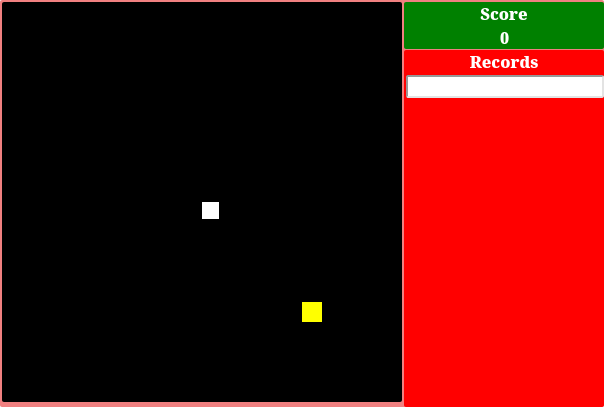
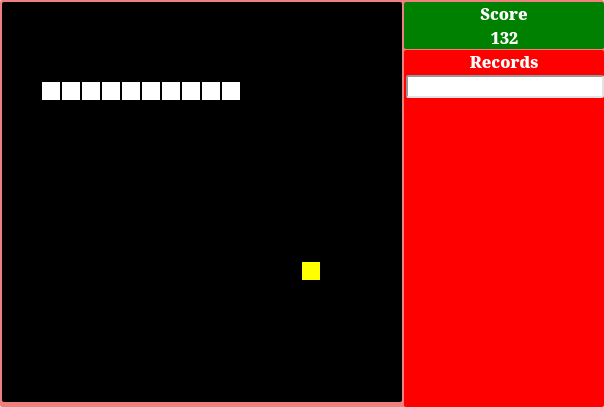
Correções e refatoramento

diff --git a/script.js b/script.js
@@ -1,20 +1,24 @@
 window.onload = function () {
     var stage = document.getElementById('stage');
     var contexto = stage.getContext("2d");
+    var marginBlocos = 2;
 
     setInterval(game, 200);
 
     document.addEventListener("keydown", keyPush);//Adiciona evento de tecla
 
-    const velocidade = 1;    
+    const velocidade = 1;
     var velocidadeX = velocidadeY = 0;
 
-    var pontoX = pontoY = 10;//Cabeça da cobra
-    var tamanhoPonto = pontosX = pontosY = 20;
-    var foodX = foodY = 15;
+    var pontoX = pontoY = 10;//Posição inicial da CABEÇA(10x10)        
+    var foodX = foodY = 15;//Posição inicial da COMIDA(15x15)
 
-    var trail = [];
-    tail = 1;
+    const pontosX = pontosY = 20; //Tamanho do cenário
+    const tamanhoPonto = 20; //Tamanho dos blocos
+
+    tail = 2; //Cauda em inteiro
+    var trail = [tail]; //Cauda em matriz
+    
 
     var score = 0;
     var multiplier = 3;
@@ -38,32 +42,33 @@ window.onload = function () {
         }
 
         contexto.fillStyle = "black";//cor do fundo
-        contexto.fillRect(0, 0, stage.width, stage.height);
+        contexto.fillRect(0, 0, stage.width, stage.height); // Colorir de X=0, Y=0 até x(largura total), y(altura total)
 
         contexto.fillStyle = "yellow";//Pinta o food
-        contexto.fillRect(foodX * tamanhoPonto, foodY * tamanhoPonto, tamanhoPonto, tamanhoPonto);
-
+        contexto.fillRect(foodX * tamanhoPonto, foodY * tamanhoPonto, tamanhoPonto - marginBlocos, tamanhoPonto - marginBlocos);
+        //--------------------------------------------- RENDER DA COBRINHA ----------------------------------------------------
         contexto.fillStyle = "white";//cor da cobra
-
         for (var i = 0; i < trail.length; i++) {//Rastro utilizado para colisões. deve deslizar conforme a cobra anda
 
-            contexto.fillRect(trail[i].x * tamanhoPonto, trail[i].y * tamanhoPonto, tamanhoPonto - 3, tamanhoPonto - 3); //-3 é o margin
+            contexto.fillRect(trail[i].x * tamanhoPonto, trail[i].y * tamanhoPonto, tamanhoPonto - marginBlocos, tamanhoPonto - marginBlocos);
 
-            if (trail[i].x == pontoX && trail[i].y == pontoY) {//Ser cabeça colidir com a calda
+            if (trail[i].x == pontoX && trail[i].y == pontoY) { //Ser cabeça colidir com a calda
 
-                velocidadeX = velocidadeY = 0; //Tá feio era bom jogar um warn(tratar)
-                alert("Voce perdeu!");
-                tail = 1;
+                if(score != 0){
+                    alert("Voce perdeu!");
+                }
+                resetGame();
             }
-
         }
-        //criou o array e substituiu
+
+        //criou o array e substituiu ?????????????????????????
         trail.push({ x: pontoX, y: pontoY }); //SE não colidir o jogo continua
 
-        while (trail.length > tail) {// se a trilha estiver maior que a calda
-            trail.shift();//Remove o ultimo bloco e acrescenta um à frente         
+        while (trail.length > tail) { // se a trilha estiver maior que a calda
+            trail.shift(); //Aumenta 1 bloco        
         }
 
+        //--------------------- GERAR COMIDA --------------------------
         if (foodX == pontoX && foodY == pontoY) {//Se pegar o food   
 
             tail++;
@@ -74,30 +79,56 @@ window.onload = function () {
         }
     }
 
+    //---------------------- Funções auxiliares --------------------------
+    function resetGame(){
+        velocidadeX = velocidadeY = 0;
+        pontoX = pontoY = 10;//Posição inicial da CABEÇA(10x10)        
+        foodX = foodY = 15;//Posição inicial da COMIDA(15x15)              
+        tail = 2;
+        score = 0;
+    }
+
     function atualizarScore() {
 
         score += trail.length * multiplier;
         document.getElementById("scoreText").innerHTML = score;
     }
 
+    function cobrinhaParada() {
+        if (velocidadeX == 0 && velocidadeY == 0) {
+            return true;
+        }
+    }
+
+    //----------------------- Eventos de teclas direcionais ------------------------------
     function keyPush(event) {//Evento dos botões
 
         switch (event.keyCode) {
             case 37: // tecla left
-                velocidadeX = - velocidade;
-                velocidadeY = 0;
+                //Esquerda somente se a cabeça já estiver indo pra cima ou pra baixo OU cauda igual a 2
+                if (velocidadeX == 0 && velocidadeY != 0 || cobrinhaParada()) {
+                    velocidadeX = - velocidade;
+                    velocidadeY = 0;
+                }
                 break;
             case 38: // tecla up
-                velocidadeX = 0;
-                velocidadeY = - velocidade;
+                //Cima somente se a cabeça já estiver indo para direita ou esquerda
+                if (velocidadeX != 0 && velocidadeY == 0 || cobrinhaParada()) {
+                    velocidadeX = 0;
+                    velocidadeY = - velocidade;
+                }
                 break;
             case 39: // tecla right
-                velocidadeX = velocidade;
-                velocidadeY = 0;
+                if (velocidadeX == 0 && velocidadeY != 0 || cobrinhaParada()) {
+                    velocidadeX = velocidade;
+                    velocidadeY = 0;
+                }
                 break;
             case 40: //tecla down
-                velocidadeX = 0;
-                velocidadeY = velocidade;
+                if (velocidadeX != 0 && velocidadeY == 0 || cobrinhaParada()) {
+                    velocidadeX = 0;
+                    velocidadeY = velocidade;
+                }
                 break;
             default:
                 break;

diff --git a/style.css b/style.css
@@ -30,7 +30,9 @@
     color: white;    
     background-color: red;    
 }
+/*
 .recordInput{
-    /*max-width: 10px;
-    text-align: right;*/
+    max-width: 10px;
+    text-align: right;
 }
+*/

diff --git a/README.md b/README.md
@@ -1,6 +1,6 @@
-<h1 align="center">Calculadora_JuiceD</h1>
+<h1 align="center">Cobrinha_JuiceD</h1>
 
-<p align="center">Uma calculadora desenvolvida em JavaScript, CSS e HTML. Botões com tamanhos e cores confortáveis ao uso.</p>
+<p align="center">Jogo da cobrinha desenvolvida em JavaScript, CSS e HTML. Com marcador de pontos e melhores jogadores.</p>
 
 <h4 align="center"> 
 	🚧  Em construção...  🚧
@@ -10,8 +10,11 @@
 - [x] Movimentos;
 - [x] Mudança de tamanho;
 - [x] Contagem dos pontos;
+- [ ] Cronômetro;
 - [ ] Mudança de velocidade;
 - [ ] Ranking das melhores pontuações.
+- [ ] Sons.
+- [ ] Pause/resume game.
 
 ### Pré-requisitos
 
@@ -20,6 +23,17 @@ Você precisa fazer download do código [.ZIP](https://github.com/robinsonmourao
 <h1 align="center">
   <img alt="Snake Game JuiceD" src="./snake print.png" />
 </h1>
+
+### Bugs conhecidos
+
+- [RESOLVIDO] Cobrinha volta emcima dela mesma;
+- [PENDENTE] Score não permanece em Records;
+- [PENDENTE] Informação de perda de partida não salva nome e pontuação de jogador;
+- [PENDENTE] inputText de Records, mal alinhada;
+- [PENDENTE] Controle por W, A, S, D;
+- [PENDENTE] elay nos controles;
+- [PENDENTE] Cobrinha, quando parada, não é desenhada em dois pontos como deveria;
+- [PENDENTE] Dois movimentos rápidos(para voltar), fazem o jogador perder a partida.
 
 ### Autor
 
